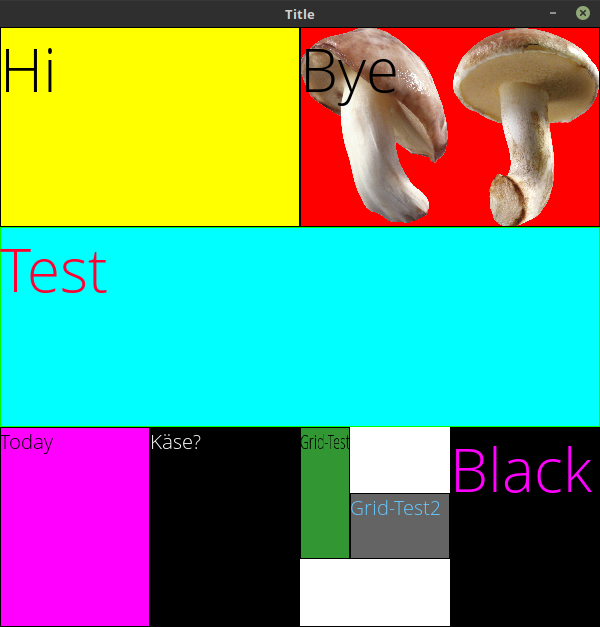
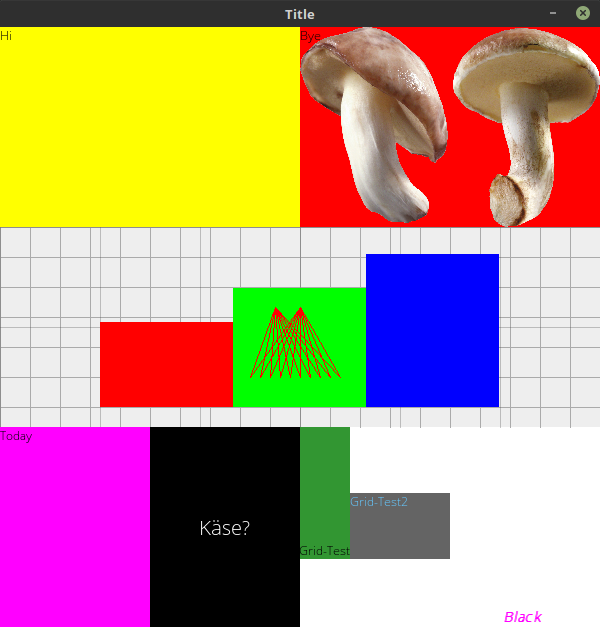
update example and readme

diff --git a/test/test.cpp b/test/test.cpp
@@ -22,6 +22,16 @@ void out()
     std::cout << "out" << std::endl;
 }
 
+int unique(int a)
+{
+    return a;
+}
+
+double add(int a, float b)
+{
+    return a + b;
+}
+
 void quit()
 {
     TS::SYSTEM_RUNNING = false;
@@ -29,7 +39,7 @@ void quit()
 
 void gui()
 {
-    using TG::operator""_pt;
+    using TG::operator ""_pt;
 
     LOG("Loading libraries");
 
@@ -118,6 +128,13 @@ void gui()
 
             renderer.clear();
             main_widget.draw(&renderer);
+            for(auto i : TM::range(TM::Point{275,280}, TM::Point{325,280}, TM::Point{25,0}))
+            {
+                for(auto j : TM::range(TM::Point{250,350}, TM::Point{350,350}, TM::Point{10,0}))
+                {
+                    renderer.drawLine(i, j, 10, TURBO::VIDEO::RED);
+                }
+            }
             renderer.present();
         }
         SDL_Delay(5);
@@ -255,7 +272,7 @@ int server()
 
     LOG("START SERVER");
 
-    TN::TCPServer server = TN::TCPServer(13370);
+    TN::TCPServer  server = TN::TCPServer(13370);
     TN::NetPackage package{};
 
     Uint16 text[] = {0x050a, 0x0065, 0x006c, 0x006c,
@@ -268,7 +285,7 @@ int server()
                      0x002e, 0x0020, 0xfc00, 0x0020,
                      0x0904, 0x0020, 0x10F7, 0x1435};
 
-    std::copy(text, text + sizeof(text)/ sizeof(Uint16), package.data);
+    std::copy(text, text + sizeof(text) / sizeof(Uint16), package.data);
 
     // Wait for 1 Client, wait at max 10 sec
     server.waitAccept(1, 10000);
@@ -309,7 +326,7 @@ int client()
                      0x1729};
 
 
-    std::copy(text, text + sizeof(text)/ sizeof(Uint16), package.data);
+    std::copy(text, text + sizeof(text) / sizeof(Uint16), package.data);
 
     client.send(package);
 
@@ -321,9 +338,9 @@ int keyboard()
 {
     TS::SDL sdl{};
     sdl.initSDL(SDL_INIT_EVERYTHING);
-    TV::Window      window       = TV::Window();
-    TI::KeyCombination comb1 = TI::KeyCombination(SDLK_a);
-    TI::KeyCombination comb2 = TI::KeyCombination(TI::Key{SDLK_q});
+    TV::Window         window = TV::Window();
+    TI::KeyCombination comb1  = TI::KeyCombination(SDLK_a);
+    TI::KeyCombination comb2  = TI::KeyCombination(TI::Key{SDLK_q});
 
     comb1 &= SDLK_s;
     comb1 &= TI::Key{SDLK_d} & TI::Key{SDLK_f};
@@ -367,18 +384,18 @@ int database()
     mysql.useDatabase("Turbo");
 
     mysql.createTable("Cars",
-                       std::vector<std::string>{"Id", "Name", "Price"},
-                       std::vector<std::string>{"INT", "TEXT", "INT"},
-                       std::vector<std::string>{},
-                       std::vector<std::string>{},
-                       std::vector<std::string>{},
-                       std::vector<std::string>{},
-                       std::vector<std::string>{"PRIMARY KEY"});
+                      std::vector<std::string>{"Id", "Name", "Price"},
+                      std::vector<std::string>{"INT", "TEXT", "INT"},
+                      std::vector<std::string>{},
+                      std::vector<std::string>{},
+                      std::vector<std::string>{},
+                      std::vector<std::string>{},
+                      std::vector<std::string>{"PRIMARY KEY"});
 
     mysql.insertEntry("Cars", std::vector<std::string>{"Id", "Name", "Price"},
                       std::vector<std::string>{"0", "Test", "100"});
 
-    for(auto & query : mysql.getQueryCache())
+    for(auto &query : mysql.getQueryCache())
     {
         LOG(query);
     }
@@ -391,6 +408,8 @@ int main(int argc, char **argv)
 
     gui();
 
-    std::cout << "Execution took: " << TS::Clock::getPTicksToString(ptimer.getTime(), "%Mm %Ss %fms %uus %nns") << std::endl;
+    std::cout << "Execution took: "
+              << TS::Clock::getPTicksToString(ptimer.getTime(), "%Mm %Ss %fms %uus %nns")
+              << std::endl;
     return 0;
 }

diff --git a/README.md b/README.md
@@ -35,54 +35,65 @@ void quit()
 }
 
 
-int main(int argc, char ** argv)
+void gui()
 {
-    TS::PTimer ptimer{};
+    using TG::operator ""_pt;
 
     LOG("Loading libraries");
-    
-    TS::SDL sdl = TS::SDL(SDL_INIT_EVERYTHING);
+
+    TS::SDL sdl{};
+    sdl.initSDL(SDL_INIT_EVERYTHING);
     sdl.initIMG(IMG_INIT_PNG);
     sdl.initMIX(MIX_INIT_MP3 | MIX_INIT_FLAC);
     sdl.initTTF();
 
     LOG("Set up UI");
 
-    auto window = TV::Window("Title", TM::Rect(50, 50, 600, 600), SDL_WINDOW_SHOWN);
-    auto renderer = TV::Renderer(window, -1, SDL_RENDERER_ACCELERATED);
+    auto window      = TV::Window("Title", TM::Rect(50, 50, 600, 600), SDL_WINDOW_SHOWN);
+    auto renderer    = TV::Renderer(window, -1, SDL_RENDERER_ACCELERATED);
     auto main_widget = TG::MainWidget(window, renderer);
-    auto hbox = TG::Box(&main_widget, TG::ORIENTATION::VERTICAL);
-    auto vbox1 = TG::Box(nullptr, TG::ORIENTATION::HORIZONTAL);
-    auto vbox2 = TG::Box(nullptr, TG::ORIENTATION::HORIZONTAL);
-    auto grid = TG::Grid(nullptr, 3, 3);
-    auto b1 = TG::Button("Hi");
-    auto b2 = TG::Button("Bye");
-    auto b3 = TG::Button("Today");
-    auto b4 = TG::Button("Käse?");
-    auto b5 = TG::Button("Test");
-    auto b6 = TG::Button("Grid-Test");
-    auto b7 = TG::Button("Grid-Test2");
-    auto wi = TG::Button("Black");
+    auto hbox        = TG::Box(&main_widget, TG::ORIENTATION::VERTICAL);
+    auto vbox1       = TG::Box(nullptr, TG::ORIENTATION::HORIZONTAL);
+    auto vbox2       = TG::Box(nullptr, TG::ORIENTATION::HORIZONTAL);
+    auto grid        = TG::Grid(nullptr, 3, 3);
+    auto b1          = TG::Button("Hi");
+    auto b2          = TG::Button("Bye");
+    auto b3          = TG::Button("Today");
+    auto b4          = TG::Button("Käse?");
+    auto bchart      = TCH::BarChart(nullptr);
+    auto b6          = TG::Button("Grid-Test");
+    auto b7          = TG::Button("Grid-Test2");
+    auto wi          = TG::Button("Black");
 
-    renderer.getFont()->setFontSize(60);
+    LOG("Configure");
 
-    b1.setBackgroundColor({255, 255, 0, 255});
-    b2.setBackgroundColor({255, 0, 0, 255});
-    b2.setBackgroundTexture("resources/images/mushroom.png", &renderer);
-    b3.setBackgroundColor({255, 0, 255, 255});
-    b4.setBackgroundColor({0, 0, 0, 255});
-    b5.setBackgroundColor({0, 255, 255, 255});
-    b5.setFontColor({255, 0, 50, 100});
-    b5.setBorderColor({0, 255, 0, 255});
+    renderer.getFont()->setFontSize(14);
+
+    b1.setBackgroundColor(TV::YELLOW);
+    b2.setBackgroundColor(TV::RED);
+    b2.setBackgroundTexture("resources/image/mushroom.png", &renderer);
+    b3.setBackgroundColor(TV::MAGENTA);
+    b4.setBackgroundColor(TV::BLACK);
+    b4.setFontColor(TV::WHITE);
+    b4.setTextAlignment(TV::TEXT_ALIGNMENT::MIDDLE_CENTER);
+    b4.setFontSize(18_pt);
+    bchart.setBackgroundColor(0xEEEEEEFF);
+    bchart.setFontColor({255, 0, 50, 100});
     b6.setBackgroundColor({100, 100, 100, 255});
     b6.setBackgroundColor({50, 150, 50, 255});
+    b6.setTextAlignment(TV::TEXT_ALIGNMENT::BOTTOM_RIGHT);
     b7.setBackgroundColor({100, 100, 100, 255});
     b7.setFontColor({100, 200, 255, 255});
     wi.setBackgroundColor({0, 0, 0, 0});
     wi.setFontColor({255, 0, 255, 255});
+    wi.setFontStyle(TV::FONT_STYLE::BOLD_ITALIC);
+    wi.setTextAlignment(TV::TEXT_ALIGNMENT::BOTTOM_CENTER);
+    wi.setFontSize(14_pt);
+
+    LOG("Insert Widgets");
 
     hbox.addWidget(&vbox1);
-    hbox.addWidget(&b5);
+    hbox.addWidget(&bchart);
     hbox.addWidget(&vbox2);
     vbox1.addWidget(&b1);
     vbox1.addWidget(&b2);
@@ -115,14 +126,30 @@ int main(int argc, char ** argv)
 
             renderer.clear();
             main_widget.draw(&renderer);
+            for(auto i : TM::range(TM::Point{275,280}, TM::Point{325,280}, TM::Point{25,0}))
+            {
+                for(auto j : TM::range(TM::Point{250,350}, TM::Point{350,350}, TM::Point{10,0}))
+                {
+                    renderer.drawLine(i, j, 10, TURBO::VIDEO::RED);
+                }
+            }
             renderer.present();
         }
         SDL_Delay(5);
     }
 
     LOG("Stop application");
+}
 
-    std::cout << TS::Clock::getPTicksToString(ptimer.getTime(), "%s %fms %uus %nns") << std::endl;
+int main(int argc, char **argv)
+{
+    TS::PTimer ptimer{};
+    
+    gui();
+
+    std::cout << "Execution took: "
+              << TS::Clock::getPTicksToString(ptimer.getTime(), "%Mm %Ss %fms %uus %nns")
+              << std::endl;
     return 0;
 }
 
